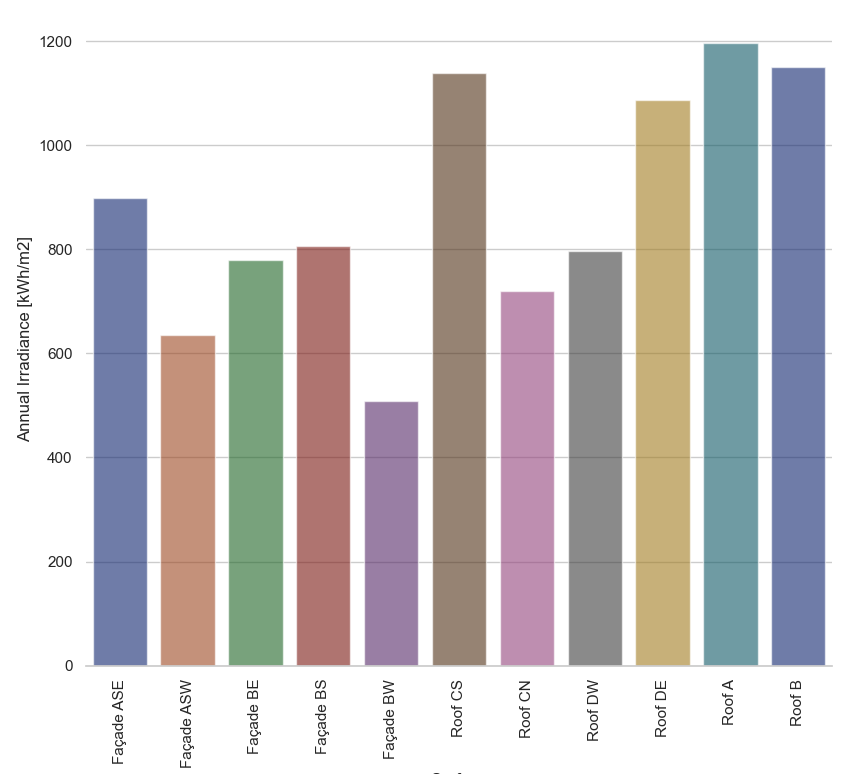
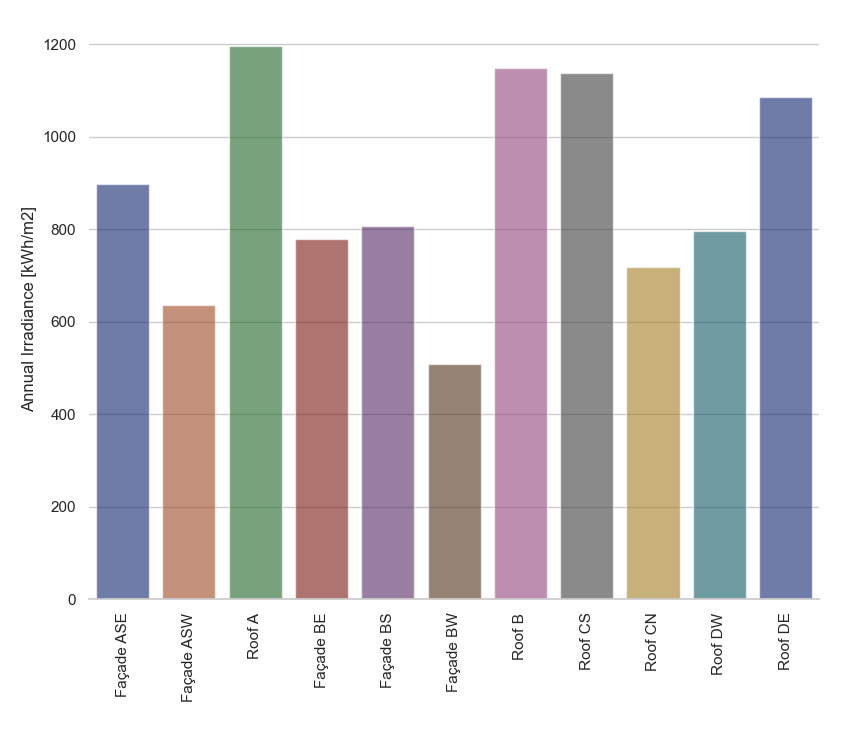
cleanup

diff --git a/EBE_spyder_final.py b/EBE_spyder_final.py
@@ -149,7 +149,7 @@ def create_bar_charts_DC_outputs_module_groups(POA_surface):
         ci = None, palette="dark", alpha=.6, height=6
     )
     g.despine(left=True)
-    g.set_axis_labels("Surface", "Annual Irradiance [kWh/m2]")
+    g.set_axis_labels("", "Annual Irradiance [kWh/m2]")
     g.set_xticklabels(rotation=90)
     
 create_bar_charts_DC_outputs_module_groups(POA_surface)
@@ -244,7 +244,8 @@ def create_bar_charts_AC_facade(Power_AC_sum):
         ci = None, palette="dark", alpha=.6, height=6
     )
     g.despine(left=True)
-    g.set_axis_labels("Surface", "Annual AC Energy [MWh]")
+    g.set_xticklabels(rotation=90)
+    g.set_axis_labels("", "Annual AC Energy [MWh]")
 
 
 create_bar_charts_AC_facade(Power_AC_sum)
@@ -268,6 +269,7 @@ def create_bar_charts_AC_building(Power_AC_sum_buildings):
         ci = None, palette="dark", alpha=.6, height=6
     )
     g.despine(left=True)
+    
     g.set_axis_labels("", "Annual AC Energy [MWh]")
 
 

diff --git a/functions_for_EBE_spyder_final.py b/functions_for_EBE_spyder_final.py
@@ -139,10 +139,10 @@ def create_utrecht_dni_scatters():
     #formatting
     fig.subplots_adjust(wspace = 0.2, hspace = 0.3)
     
-    colours = ['black', 'dimgray', 'maroon', 'red']
+    colours = ['#5975a4', '#cc8963', '#5f9e6e', '#b55d60']
     
     for index, model in enumerate(MODELS):
-       
+        
         dotsize = 0.0005
         colour = colours[index]
         modelled_dni_scatter = find_dni(model,'Utrecht')
@@ -153,7 +153,7 @@ def create_utrecht_dni_scatters():
         subplot.set_ylim(0,1000)
         subplot.set(xlabel='Observed DNI [W/m2]', ylabel='Modelled DNI [W/m2]')
         subplot.plot([0,999],[0,999], c = 'gray', linewidth = 1)
-        
+        subplot.grid(b=None)
     
 
 """Question 2 Functions"""
